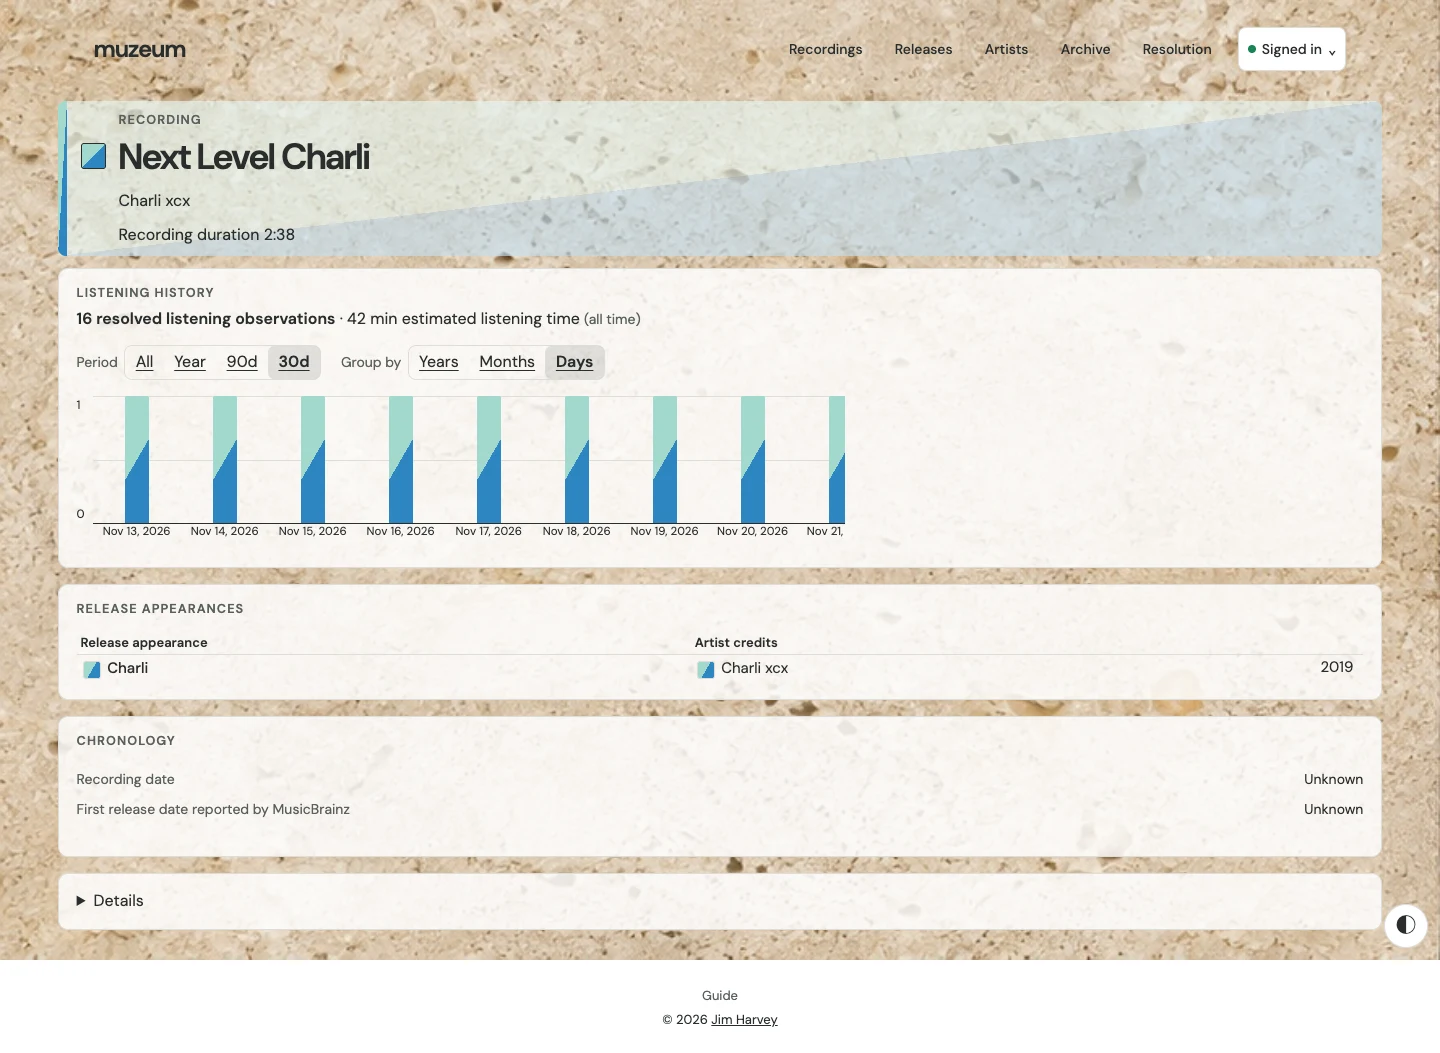
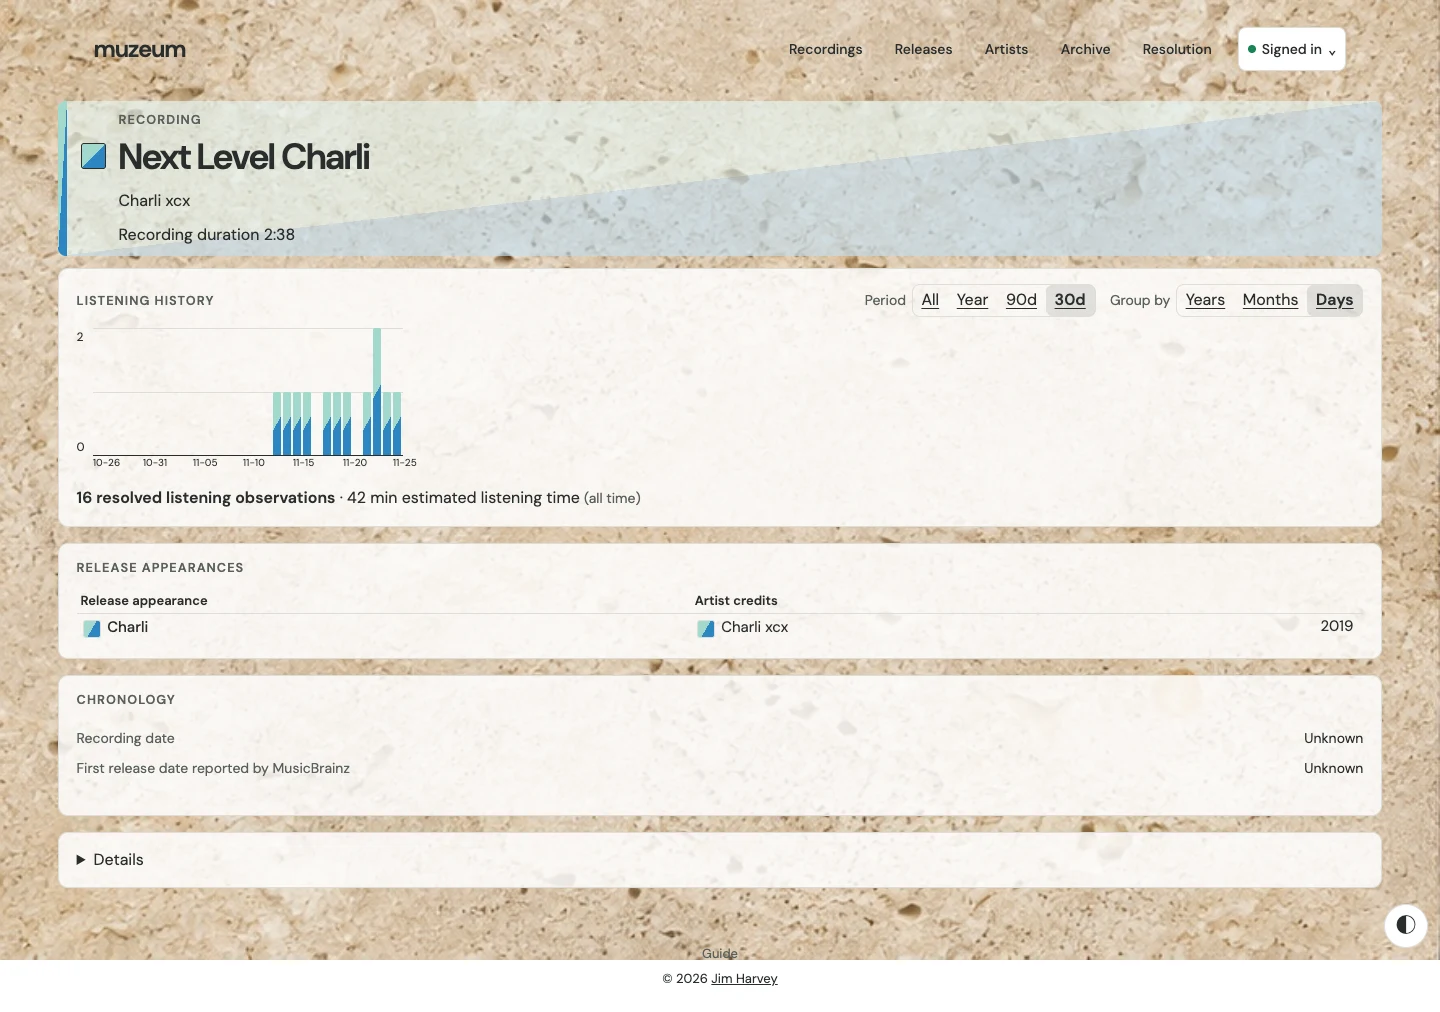
Preserve calendar spacing and rotate listening charts on mobile

diff --git a/app/assets/stylesheets/application.css b/app/assets/stylesheets/application.css
@@ -535,15 +535,25 @@ main .review-candidate.recommended { border-color: #378c48; }
 .catalog-heading > .entity-heading-label { margin-block: 0 .2rem; }
 .entity-heading-label > span { display: block; }
 .entity-history > p { margin-block: .25rem; }
-.listening-controls { display: flex; flex-wrap: wrap; gap: .5rem 1.25rem; margin-block: .8rem; }
-.listening-control { display: flex; flex-wrap: wrap; gap: .4rem; align-items: center; }
+.listening-history-heading { display: flex; flex-wrap: wrap; align-items: baseline; gap: .4rem 1rem; }
+.listening-controls { display: flex; flex-wrap: wrap; justify-content: flex-end; gap: .35rem .9rem; margin-inline-start: auto; }
+.listening-control { display: flex; flex-wrap: wrap; justify-content: flex-end; gap: .35rem; align-items: center; }
 .artist-ranges { display: flex; flex-wrap: wrap; border: 1px solid var(--line); border-radius: .5rem; }
-.artist-ranges a { padding: .25rem .65rem; border-radius: .4rem; }
+.artist-ranges a { padding: .2rem .55rem; border-radius: .4rem; }
 .artist-ranges a[aria-current] { font-weight: 700; background: var(--surface-accent); }
-.artist-timeline { display: flex; gap: .5rem; margin: 1rem 0 0; max-width: 48rem; }
-.artist-timeline-axis { display: flex; height: 8rem; flex: none; flex-direction: column; justify-content: space-between; font-size: .75em; }
+.listening-summary { margin-block-start: .65rem; }
+.listening-summary p { margin-block: .2rem 0; }
+.artist-timeline {
+  --listening-slot: 10px;
+  --listening-thickness: 8px;
+  display: flex;
+  gap: .5rem;
+  margin: .7rem 0 0;
+}
+.artist-timeline-axis { display: flex; height: 8rem; flex: none; flex-direction: column; justify-content: space-between; font-size: .75rem; }
+.listening-axis-zero { margin-block-start: auto; }
 .listening-plot:focus-visible, .entity-details > summary:focus-visible { outline: 2px solid var(--ink); outline-offset: 2px; }
-.listening-plot { min-width: 0; overflow-x: auto; padding-bottom: 1.75rem; }
+.listening-plot { min-width: 0; overflow-x: auto; padding: 0 2.5rem 1.2rem 0; }
 .artist-timeline-bars {
   display: flex;
   width: max-content;
@@ -551,9 +561,42 @@ main .review-candidate.recommended { border-color: #378c48; }
   border-bottom: 1px solid currentColor;
   background: repeating-linear-gradient(to top, transparent 0 calc(50% - 1px), var(--line) calc(50% - 1px) 50%);
 }
-.artist-timeline-column { position: relative; display: flex; align-items: end; width: 5.5rem; height: 100%; }
-.artist-timeline-fill { width: 1.5rem; margin-inline: auto; height: var(--listening-scale, 0%); background: currentColor; border-radius: 2px 2px 0 0; }
-.artist-timeline-column time { position: absolute; top: 100%; width: 100%; text-align: center; white-space: nowrap; font-size: .72em; }
+.artist-timeline-column { position: relative; display: flex; align-items: end; width: var(--listening-slot); height: 100%; }
+.artist-timeline-fill { width: var(--listening-thickness); height: var(--listening-scale, 0%); background: currentColor; border-radius: 2px 2px 0 0; }
+.artist-timeline-column time { position: absolute; white-space: nowrap; font-size: .625rem; font-variant-numeric: tabular-nums; }
+.listening-label-desktop { inset-block-start: 100%; inset-inline-start: 0; }
+.listening-label-mobile { display: none; }
+
+@media (max-width: 700px) {
+  .listening-controls { width: 100%; }
+  .artist-timeline { --listening-date-gutter: 2.5rem; display: block; }
+  .artist-timeline-axis {
+    width: min(9rem, calc(100% - var(--listening-date-gutter)));
+    height: auto;
+    flex-direction: row;
+    margin-inline-start: var(--listening-date-gutter);
+    border-bottom: 1px solid var(--line);
+  }
+  .listening-axis-zero { order: -1; }
+  .listening-plot {
+    width: min(100%, calc(9rem + var(--listening-date-gutter) + 1rem));
+    max-height: 12rem;
+    overflow: hidden auto;
+    padding: 0 0 2px;
+  }
+  .artist-timeline-bars {
+    flex-direction: column-reverse;
+    width: auto;
+    height: auto;
+    background: none;
+    border: 0;
+    padding-inline-start: var(--listening-date-gutter);
+  }
+  .artist-timeline-column { align-items: start; width: min(100%, 9rem); height: var(--listening-slot); }
+  .artist-timeline-fill { width: var(--listening-scale, 0%); height: var(--listening-thickness); border-radius: 0 2px 2px 0; }
+  .listening-label-desktop { display: none; }
+  .listening-label-mobile { display: block; inset-inline-end: calc(100% + .4rem); inset-block-start: 0; line-height: var(--listening-slot); }
+}
 
 .artist-listening-table { width: 100%; table-layout: fixed; border-collapse: collapse; margin-block: .5rem; }
 .artist-listening-table :is(td, th) { padding: .3rem .45rem; text-align: left; overflow-wrap: anywhere; }

diff --git a/spec/system/canonical_library_spec.rb b/spec/system/canonical_library_spec.rb
@@ -111,7 +111,9 @@ RSpec.describe "Canonical library resolution workflow", type: :system do
     MusicalIdentityDecision.create!(entity: artist, user:, colors: %w[light-green blue])
     ReleaseRankingDecision.create!(user:, release:, included: true)
     payload = { artist_name: artist.name, album_name: release.title, track_name: recording.title }
-    dates = [ 6.years.ago, 3.years.ago, 6.months.ago, 50.days.ago, *Array.new(12) { |i| (i + 1).days.ago } ]
+    recent_days = [ Time.current, 2.days.ago.utc.change(hour: 13) ] +
+      ((1..12).to_a - [ 4, 8 ]).map { |days| days.days.ago.utc.change(hour: 12) }
+    dates = [ Time.utc(2019, 12, 31), Time.utc(2020, 1, 2), 6.months.ago, 50.days.ago, *recent_days ]
     observations = dates.map { |played_at| Scrobble.create!(user:, lastfm_account: user.source_account, played_at:, payload:) }
     RecordingResolution::Ledger.record!(listener: user, scrobble: observations.first, scope: :surface,
       mode: "resolved", recording:, reason: "Fixture")
@@ -137,7 +139,8 @@ RSpec.describe "Canonical library resolution workflow", type: :system do
       end
 
       within("nav[aria-label='Listening history grouping']") { click_link "Months" }
-      expect(page).to have_css(".artist-timeline-column time", text: 6.months.ago.strftime("%b %Y"))
+      expect(page).to have_css(".artist-timeline-column[data-date='#{6.months.ago.to_date.beginning_of_month}']")
+      expect(page).to have_css(".artist-timeline-column[data-date='2020-01-01'] time", exact_text: "2020")
       { "Year" => 14, "90d" => 13, "30d" => 12 }.each do |period, expected_plays|
         within("nav[aria-label='Listening history period']") { click_link period }
         expect(page).to have_css("nav[aria-label='Listening history grouping'] [aria-current]", exact_text: "Months")
@@ -148,10 +151,12 @@ RSpec.describe "Canonical library resolution workflow", type: :system do
         JS
       end
       within("nav[aria-label='Listening history grouping']") { click_link "Days" }
-      expect(page).to have_css(".artist-timeline-column", count: 12)
-      expect(page).to have_css(".artist-timeline-fill[title$='#{label == 'Recording' ? '1 play' : '3 min'}']", count: 12)
+      expect(page).to have_css(".artist-timeline-column[data-date='#{4.days.ago.utc.to_date}']:not(:has(.artist-timeline-fill))", visible: :all)
+      expect(page).to have_css(".artist-timeline + .listening-summary", text: "(all time)")
+      expect(page).to have_css(".artist-timeline-fill[title$='#{label == 'Recording' ? '1 play' : '3 min'}']", count: 10)
+      expect(page).to have_css(".artist-timeline-fill[title$='#{label == 'Recording' ? '2 plays' : '5 min'}']", count: 1)
       find("#entity-details > summary").send_keys(:enter)
-      expect(page).to have_css("#entity-details[open] .listening-periods li", count: 12)
+      expect(page).to have_css("#entity-details[open] .listening-periods li", count: 11)
       find("#entity-details > summary").send_keys(:space)
       expect(page).to have_css("#entity-details:not([open])")
 
@@ -160,17 +165,52 @@ RSpec.describe "Canonical library resolution workflow", type: :system do
         browser.execute_cdp("Emulation.setEmulatedMedia", features: [ { name: "prefers-color-scheme", value: theme } ])
         visit polymorphic_path(entity, range: "30d", grouping: "days")
         expect(page.evaluate_script("document.documentElement.scrollWidth <= innerWidth")).to be(true)
-        expect(page.evaluate_script(<<~JS)).to be(true)
+        expect(page.evaluate_script(<<~JS)).to eq([ 10, 8, 2, true, true, true ])
           (() => {
+            const mobile = #{size == "mobile"}
             const plot = document.querySelector(".listening-plot")
-            const first = plot.scrollLeft
-            plot.scrollLeft = plot.scrollWidth
-            const scrolls = plot.scrollLeft > first
-            plot.scrollLeft = first
-            return scrolls
+            const rects = [...plot.querySelectorAll(".artist-timeline-column")].map(slot => slot.getBoundingClientRect())
+            const first = rects[0]
+            const second = rects[1]
+            const fills = [...plot.querySelectorAll(".artist-timeline-fill")].map(bar => bar.getBoundingClientRect())
+            const sizes = fills.map(bar => mobile ? bar.width : bar.height)
+            const heading = document.querySelector(".listening-history-heading h2").getBoundingClientRect()
+            const controls = document.querySelector(".listening-controls").getBoundingClientRect()
+            return [
+              mobile ? first.top - second.top : second.left - first.left,
+              mobile ? fills[0].height : fills[0].width,
+              Math.max(...sizes) / Math.min(...sizes),
+              mobile ? plot.scrollHeight > plot.clientHeight && plot.scrollWidth === plot.clientWidth
+                : plot.scrollHeight === plot.clientHeight && rects.length * 10 < innerWidth / 2,
+              mobile ? controls.top >= heading.bottom : controls.left >= heading.right && Math.abs(controls.top - heading.top) < 16,
+              mobile ? rects.at(-1).top <= plot.getBoundingClientRect().top + 1
+                : document.querySelector(".artist-timeline-bars").getBoundingClientRect().width === rects.length * 10
+            ]
           })()
         JS
         capture_resolution("entity-#{label.downcase}-#{size}", full: true)
+        %w[years months days].each do |grouping|
+          visit polymorphic_path(entity, grouping:)
+          expect(page).to have_css(".artist-timeline-column:not(:has(.artist-timeline-fill))", minimum: 1, visible: :all)
+          if grouping != "years"
+            expect(page).to have_css(".artist-timeline-column[data-date='2020-01-01'] time", exact_text: "2020")
+          end
+          expect(page.evaluate_script(<<~JS)).to be(true)
+            (() => {
+              const mobile = #{size == "mobile"}
+              const plot = document.querySelector(".listening-plot")
+              const first = plot.querySelector(".artist-timeline-column").getBoundingClientRect()
+              const last = plot.querySelector(".artist-timeline-column:last-child").getBoundingClientRect()
+              const labels = [...plot.querySelectorAll(mobile ? ".listening-label-mobile" : ".listening-label-desktop")]
+                .map(label => label.getBoundingClientRect()).sort((a, b) => mobile ? a.top - b.top : a.left - b.left)
+              return (mobile ? last.top < first.top : last.left > first.left)
+                && labels.every((label, i) => !i || (mobile ? labels[i - 1].bottom <= label.top : labels[i - 1].right <= label.left))
+                && (#{grouping != "days"} || (mobile
+                  ? plot.scrollHeight > plot.clientHeight
+                  : plot.scrollWidth > plot.clientWidth))
+            })()
+          JS
+        end
       end
     end
     expect(observations.map { |observation| observation.reload.payload }).to all(eq(payload.stringify_keys))

diff --git a/app/helpers/canonical_library_helper.rb b/app/helpers/canonical_library_helper.rb
@@ -100,8 +100,22 @@ module CanonicalLibraryHelper
     end
   end
 
-  def listening_bucket_date(date, grouping)
-    date.strftime({ "years" => "%Y", "months" => "%b %Y", "days" => "%b %-d, %Y" }.fetch(grouping))
+  def listening_calendar_labels(timeline, grouping, spacing:, from_newest: false)
+    years = grouping == "years"
+    transitions = timeline.each_index.select { |i| timeline[i].first.yday == 1 } unless years
+    reserved = Set.new
+    labels = {}
+    Array(transitions).each do |i|
+      labels[i] = timeline[i].first.strftime("%Y")
+      reserved.merge((i - spacing + 1)...(i + spacing))
+    end
+    timeline.each_with_index do |(date, _), i|
+      offset = from_newest ? timeline.size - i - 1 : i
+      next unless (offset % spacing).zero? && !reserved.include?(i)
+
+      labels[i] = date.strftime(years ? "%Y" : "%m-%d")
+    end
+    labels
   end
 
   def recording_duration(milliseconds)

diff --git a/app/services/catalog_listening.rb b/app/services/catalog_listening.rb
@@ -33,8 +33,22 @@ class CatalogListening
     observations = observations.where(played_at: (now - window)..now) if window
 
     bucket = Arel.sql("date_trunc('#{unit}', scrobbles.played_at)::date")
-    observations.group(bucket).order(bucket).pluck(bucket, Arel.sql(metrics))
-      .map { |date, *stats| [ date.to_date, Stats.new(*stats) ] }
+    totals = observations.group(bucket).pluck(bucket, Arel.sql(metrics))
+      .to_h { |date, *stats| [ date.to_date, Stats.new(*stats) ] }
+    return [] if totals.empty?
+
+    first, last = if window
+      [ (now - window).utc.to_date, now.utc.to_date ].map { |date| date.public_send("beginning_of_#{unit}").to_date }
+    else
+      totals.keys.minmax
+    end
+    points = []
+    date = first
+    while date <= last
+      points << [ date, totals.fetch(date, EMPTY) ]
+      date = date.advance("#{unit}s": 1)
+    end
+    points
   end
 
   private

diff --git a/docs/design/v0.7.4/README.md b/docs/design/v0.7.4/README.md
@@ -1,6 +1,6 @@
 # Entity pages and listening history
 
-Captured in Chrome using a disposable Charli xcx catalog and resolved listening fixtures. Each view shows the 30-day period grouped by day, with Details collapsed. The daily chart scrolls within the card on narrow screens.
+Captured in Chrome using a disposable Charli xcx catalog and resolved listening fixtures. Each view shows the 30-day period grouped by day, with Details collapsed. Missing days keep their calendar slots. Desktop charts run oldest to newest from left to right. Mobile charts run newest to oldest from top to bottom and scroll within the card.
 
 | Page | Desktop, light | Mobile, dark |
 | --- | --- | --- |
